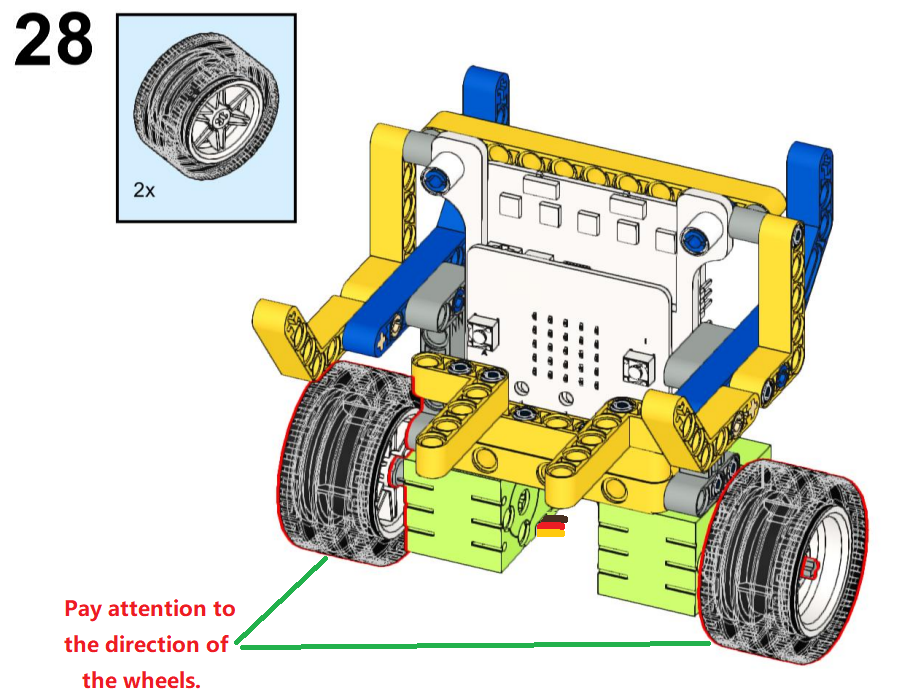
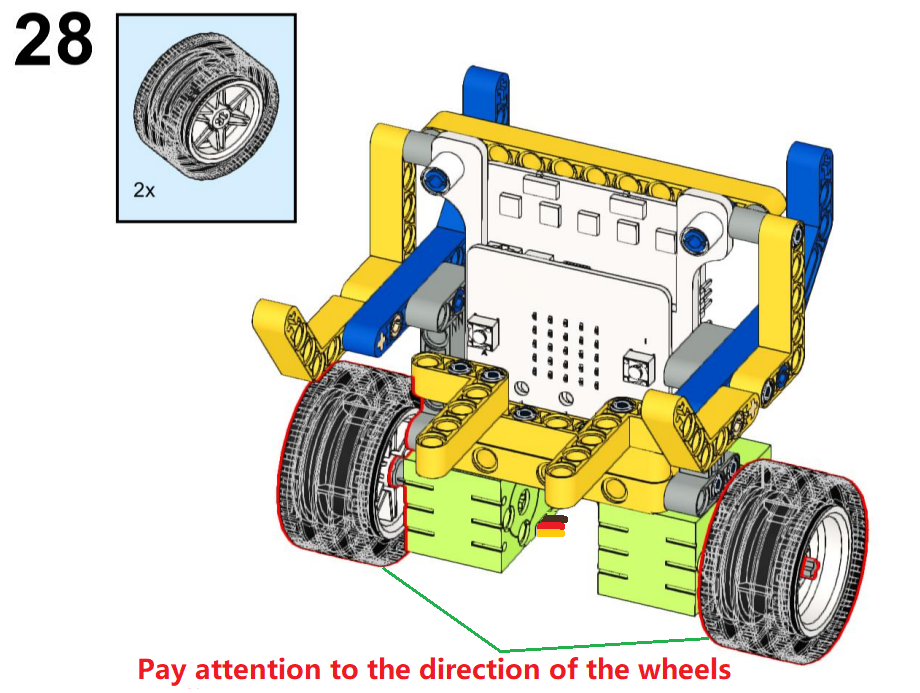
2026年02月12日 周四 14:04:17.04

diff --git a/docs/Product Introduction/1.Product Introduction.md b/docs/Product Introduction/1.Product Introduction.md
@@ -28,11 +28,11 @@ Standard Lego interfaces are reserved for Lego bricks to create unique works.
 
 🎯 Graphical Programming, Easy Learning
 
-MakeCode is supported that you can program by drag code blocks, so even beginners can quickly get started and develop logical thinking and practical skills.
+MakeCode is supported that you can program by drag and drop code blocks, so even beginners can quickly get started and develop logical thinking and practical skills.
 
 🎯 Interaction of Light & Sound, Full of Fun
 
-The Micro:bit V2 board is equipped with sound, light and touch sensor(the logo), along with SK6812 RGB lights and a 5×5 LED matrix screen, enabling rich audio and visual effects.
+The Micro:bit V2 board is equipped with sound, light and touch sensor(the logo), along with SK6812 RGB LEDs and a 5×5 LED matrix screen, enabling rich audio and visual effects.
 
 🎯 For Families, For Classrooms
 
@@ -40,31 +40,31 @@ It is not only a programming toy for parent-child interaction, but also an ideal
 
 **Details:**
 
-🎯 Mainboard: Micro:bit V2, supporting interaction with various built-in sensors and lights
+🎯 Mainboard: Micro:bit V2, supporting interaction with various built-in sensors and lights.
 
-🎯 Expansion board: Servo control, driving multiple mechanical structures
+🎯 Expansion board: Servo control, driving multiple mechanical structures.
 
-🎯 Servo: 2×360° Lego servo, dynamic stability
+🎯 Servo: 2 × 360° Lego servo, dynamic stability.
 
-🎯 Building blocks: 200+ Lego parts, with high degree of freedom in assembly
+🎯 Building blocks: 200+ Lego parts, with high degree of freedom in assembly.
 
-🎯 Programming software: MakeCode graphical programming, supporting Windows/Mac/tablets
+🎯 Programming software: MakeCode graphical programming, supporting Windows/Mac/tablets.
 
 **Applicable population:**
 
-🎯 Children and teenagers over the age of 6
+🎯 Children and teenagers over the age of 6.
 
-🎯 Parents who want to cultivate their children's logical thinking and practical skills
+🎯 Parents who want to cultivate their children's logical thinking and practical skills.
 
-🎯 STEAM course teachers in school and training institution
+🎯 STEAM course teachers in school and training institution.
 
 **Competitiveness:**
 
-🎯 Learning in Entertainment: Master programming and mechanical knowledge in play
+🎯 Learning in Entertainment: Master programming and mechanical knowledge in play.
 
-🎯 Continuous Challenge: 8 different styles + free expansion, keeping children's interest
+🎯 Continuous Challenge: 8 different styles + free expansion, keeping children's interest.
 
-🎯 Safe Material: Environment-friendly ABS plastic, safeguarding children's health
+🎯 Safe Material: Environment-friendly ABS plastic, safeguarding children's health.
 
 🎯 Professional Support: Offer detailed tutorials and examples, making it easy to get started.
 
@@ -76,9 +76,9 @@ If you found any part is missing, please contact our sales staff immediately.
 
 | # | name | qty | pic |
 | :--: | :--: | :--: | :--: |
-| 1 |Microbit V2 board + servo expansion baord  | 1 | ![Img](./media/ABC1.png) |
+| 1 | Microbit V2 board + servo expansion board | 1 | ![Img](./media/ABC1.png) |
 | 2 | 360° Lego servo | 2 | ![Img](./media/ABC2.png) |
-| 3 | block plier | 1 | ![Img](./media/ABC3.png) |
+| 3 | Building block disassembly pliers | 1 | ![Img](./media/ABC3.png) |
 | 4 | 32009 part | 6 | ![Img](./media/ABC4.png)|
 | 5 | 64179 part | 5 | ![Img](./media/ABC5.png) |
 | 6 | 32278 part | 5 | ![Img](./media/ABC6.png) |
@@ -91,8 +91,8 @@ If you found any part is missing, please contact our sales staff immediately.
 | 13 | 32526 part | 12 | ![Img](./media/ABC13.png) |
 | 14 | 32348 part | 2 | ![Img](./media/ABC14.png) |
 | 15 | 60484 part | 2 | ![Img](./media/ABC15.png) |
-| 16 | 14720 part | 5 |  ![Img](./media/ABC16.png) |
-| 17 | 3649 part | 4 |  ![Img](./media/ABC17.png) |
+| 16 | 14720 part | 5 | ![Img](./media/ABC16.png) |
+| 17 | 3649 part | 4 | ![Img](./media/ABC17.png) |
 | 18 | 3648 part | 6 | ![Img](./media/ABC18.png) |
 | 19 | 4185 part | 4 | ![Img](./media/ABC19.png) |
 | 20 | 32269 part | 3 | ![Img](./media/ABC20.png) |
@@ -108,12 +108,12 @@ If you found any part is missing, please contact our sales staff immediately.
 | 30 | 3705 part (about 3.2cm) | 2 | ![Img](./media/ABC30.png) |
 | 31 | 4519 part (about 2.4cm) | 2 | ![Img](./media/ABC31.png) |
 | 32 | 32062 part | 4 | ![Img](./media/ABC32.png) |
-| 33 | wheel | 2 | ![Img](./media/ABC33.png)|
+| 33 | Wheel | 2 | ![Img](./media/ABC33.png) |
 | 34 | 32034 part | 2 | ![Img](./media/ABC34.png) |
 | 35 | 32039 part | 4 | ![Img](./media/ABC35.png) |
 | 36 | 32192 part | 2 | ![Img](./media/ABC36.png) |
-| 37 | 32184 part | 2 |  ![Img](./media/ABC37.png) |
-| 38 | 15100 part | 4 |  ![Img](./media/ABC38.png) |
+| 37 | 32184 part | 2 | ![Img](./media/ABC37.png) |
+| 38 | 15100 part | 4 | ![Img](./media/ABC38.png) |
 | 39 | 3713 part | 6 | ![Img](./media/ABC39.png) |
 | 40 | 18654 part | 2 | ![Img](./media/ABC40.png) |
 | 41 | 4265c part | 6 | ![Img](./media/ABC41.png) |
@@ -122,8 +122,8 @@ If you found any part is missing, please contact our sales staff immediately.
 | 44 | 3749 part | 12 | ![Img](./media/ABC44.png) |
 | 45 | 3673 part | 13 | ![Img](./media/ABC45.png) |
 | 46 | 32002 part | 5 | ![Img](./media/ABC46.png) |
-| 47 | universal wheel | 1 | ![Img](./media/ABC47.png) |
-| 48 | micro USB cable | 1 | ![Img](./media/A400.png) |
+| 47 | Universal wheel | 1 | ![Img](./media/ABC47.png) |
+| 48 | Micro USB cable | 1 | ![Img](./media/A400.png) |
 | 49 | AAA-1.5V battery (<span style="color: rgb(255, 76, 65);">not included in the kit</span>) |4| ![Img](./media/ABC48.png) |
 
 ---------------
@@ -142,7 +142,7 @@ If you found any part is missing, please contact our sales staff immediately.
 
 ## 1.5 About Micro:bit V2
 
-### 1.5.1 What is Micro:bit V2 ?
+### 1.5.1 What is Micro:bit V2?
 
 The micro:bit V2 board is equipped with loads of components, including a 5x5 LED matrix, 2 programmable buttons, an accelerometer, a compass, a thermometer, a touch-sensitive logo and a MEMS microphone, a Bluetooth module of low energy, and a buzzer on its back, so it can play all kinds of sounds without any external equipment.
 
@@ -156,18 +156,18 @@ Moreover, this board has a sleeping mode to lower power consumption of batteries
 
 ![Img](./media/A639.png)
 
-Micro:bit pin functions:
+**Micro:bit pin functions:**
 
 | Function | Pin |
-| :--: | :--- |
+| :--: | :---: |
 | GPIO | P0, P1, P2, P3, P4, P5, P6, P7, P8, P9, P10, P11, P12, P13, P14, P15, P16, P19, P20 |
 | ADC/DAC | P0, P1, P2, P3, P4, P10 |
 | IIC | P19 (SCL), P20 (SDA) |
 | SPI | P13 (SCK), P14 (MISO), P15 (MOSI) |
-| PWM (commonly-used) |P0, P1, P2, P3, P4, P10 |
-|Occupied| P3 (LED Col3), P4 (LED Col1), P5 (Button A), P6 (LED Col4), P7 (LED Col2), P10 (LED Col5), P11 (Button B) |
+| PWM (commonly-used) | P0, P1, P2, P3, P4, P10 |
+| Occupied | P3 (LED Col3), P4 (LED Col1), P5 (Button A), P6 (LED Col4), P7 (LED Col2), P10 (LED Col5), P11 (Button B) |
 
-Visit the official website for more details:
+**Visit the official website for more details:**
 
 - <u>[https://tech.microbit.org/hardware/edgeconnector/](https://tech.microbit.org/hardware/edgeconnector/)</u>
 
@@ -196,14 +196,16 @@ The servo expansion board is fully compatible with the Micro:bit V2 mainboard. I
 **DIP Switches:**
 
 - **The right one:**
-  - **ON:** The power is supplied by the battery box;
+
+  - **ON:** The power is supplied by the battery box.
+  
   - **OFF:** The power supply is cut off.
 
 ![Img](./media/Servo-Expansion1.png)
 
 - **The left one:**
 
-   - **RGB:** The micro:bit V2 board can be programmed to change the colors of the 5 onboard SK6812 RGB lights. Moreover, the 3-pin interface on the pxl-bxt can also be connected to the SK6812 RGB light strip to control its colors.
+   - **RGB:** The micro:bit V2 board can be programmed to change the colors of the five onboard SK6812 RGB LEDs. Moreover, the 3-pin interface on the pxl-bxt can also be connected to the SK6812 RGB light strip to control its colors.
    
    - **SERVO:** The micro:bit V2 board can be programmed to adjust the angle of the external servos at 3-pin interface of SERVO3.
 
@@ -239,9 +241,9 @@ The servo expansion board is fully compatible with the Micro:bit V2 mainboard. I
    
    - General 3-pin 2.54mm interface × 4 (GND/VCC/SIG, GND/3.3V/D-out) 
    
-   - Interface for SK6812 RGB light strip × 1 (GND/3.3V/D-out) 
+   - Interface for SK6812 RGB LED strip × 1 (GND/3.3V/D-out) 
 
-- Insert 4 new AAA batteries, paying attention to the correct polarity.
+- Insert four new AAA batteries, paying attention to the correct polarity.
 
 - Connect external devices:
     

diff --git a/docs/Troubleshooting/4.Troubleshooting.md b/docs/Troubleshooting/4.Troubleshooting.md
@@ -6,7 +6,7 @@ Solutions for the issue where micro:bit V2 board fails to download programs and 
 
 Many new users have recently encountered this issue: When they plug the Micro:bit V2 board into the computer via a Micro USB cable and click on "**Download**", the code fails to download and the Micro:bit V2 board shows no response.
 
-If you were accidentally holding the reset button at the back of the Micro:bit V2 board at the time you copied the program onto it, this would have put the the board into maintenance mode. Or perhaps due to some of your own mistakes, the firmware on the board is lost.
+If you were accidentally holding the reset button at the back of the Micro:bit V2 board at the time you copied the program onto it, this would have put the board into maintenance mode. Or perhaps due to some of your own mistakes, the firmware on the Micro:bit V2 board is lost.
 
 As a result, a new **MAINTENANCE** drive will appear in your file manager, so the micro:bit V2 board will not accept your user code. 
 
@@ -60,9 +60,9 @@ You still cannot see the **MICROBIT** drive ? Hum, there might be a problem with
 
 **Step 2: Checking your firmware version**
 
-To find out what version of the firmware you have on your micro:bit V2:
+To find out what version of the firmware you have on your micro:bit V2 board:
 
-①. Plug it in to a computer using the micro USB cable and open **MICROBIT** drive.
+①. Plug it into a computer using the micro USB cable and open **MICROBIT** drive.
 
 ![Img](./media/A849.png)
 
@@ -102,14 +102,15 @@ If you need to update the firmware to access a new feature or troubleshoot a pro
 
 ⑥. Finally, check the <span style="color: rgb(255, 76, 65);">DETAILS.TXT</span> file that is on the **MICROBIT** drive and make sure that it has the same version number as the "**.hex**" firmware.
 
-For any issues oof the board, maintenance mode and firmware updates, please refer to the <u>[Firmware Guide](https://microbit.org/guide/firmware/)</u>.
+For any issues of the board, maintenance mode and firmware updates, please refer to the <u>[Firmware Guide](https://microbit.org/guide/firmware/)</u>.
 
 **Step 4: Checking your browser version**
 
-WebUSB is a relatively new function that you may update your browser. Check if your browser is: (a) compatible with Android, Chrome OS; (b) Microsoft Edge; (c) the Chrome 65+ of Linux, macOS and Windows 10.
+WebUSB is a relatively new function that you may update your browser. Check if your browser is: (a) compatible with Android, Chrome OS; (b) Microsoft Edge; (c) the Chrome 65+ of Linux, macOS and Windows 10/11.
 
 **Step 5: Connecting a device**
 
-Open **Google Chrome / Microsoft Edge** to go to the MakeCode editor, and click on the "**Connect Device**". For how to pair a device, please refer to <u>[WebUSB (/ device/ usb/ webusb)](https://microbit.org/get-started/user-guide/web-usb/)</u>.
+Open **Google Chrome / Microsoft Edge** to go to the MakeCode editor, and click on the "**Connect Device**". For how to pair a device, please refer to <u>[WebUSB (/ device/ usb/ webusb)](https://microbit.org/get-started/user-guide/web-usb/)</u> .
 
 Enjoy quick download!
+

diff --git a/docs/MakeCode Tutorial/Projects/Project01.md b/docs/MakeCode Tutorial/Projects/Project01.md
@@ -4,7 +4,7 @@
 
 ![Img](./media/top1.png)
 
-Here we build a multifunctional car with a Micro:bit V2 board, a servo expansion board, two 360° LEGO servos, two wheels and some LEGO parts. We program to control the car through the Micro:bit V2 logo, buttons A/B and 5×5 LED matrix.
+Here we build a multifunctional car with a Micro:bit V2 board, a servo expansion board, two 360° LEGO servos, two wheels and some LEGO parts. We program to control the car through the Micro:bit V2 logo, buttons (A, B and A+B) and 5×5 LED matrix.
 
 ![Img](./media/bottom1.png)
 
@@ -32,7 +32,7 @@ Parameters:
 - Motor speed: 12500 ± 10% (3V test), 22000 ± 10% (5V test)
 - Stop current: 0.70 ± 0.2A (3V test), 1.1 ± 0.2A (5V test)
 - Stop torque: 0.5 ± 0.1kg-cm (3V test), 0.7 ± 0.1kg-cm (5V test)
-- Wiring: Orange for signal S, red for positive+(V/VCC), brown for negative-(G/GND)
+- Wiring: Orange for signal S, red for positive ( + / V / VCC ), brown for negative ( - / G / GND )
 
 **SK6812 RGB LED**
 
@@ -132,7 +132,7 @@ There are five SK6812 RGB LEDs on the servo extension board, which can emit mult
 
 ![Img](./media/RGBLED1.png)
 
-5\. Turn off the SK6812 RGB LED.
+5\. Turn off these SK6812 RGB LEDs.
 
 ![Img](./media/RGBclear.png)
 
@@ -256,7 +256,7 @@ Turn the DIP switched to the RGB and ON.
 
 ![Img](./media/CBA01.png)
 
-Touch the logo on the micro:bit V2 board, the car moves forward, these SK6812 RGB LEDs emit red light, and the 5×5 LED matrix displays "↑"; 
+Touch the logo on the micro:bit V2 board, the car moves forward, these SK6812 RGB LEDs emit red light, and the 5×5 LED matrix displays "↑".
 
 Press button A and B on the micro:bit V2 board simultaneously and release them, the car moves backward, these SK6812 RGB LEDs emit green light, and the 5×5 LED matrix displays "↓". 
 

diff --git a/docs/MakeCode Tutorial/MakeCode Development Environment.md b/docs/MakeCode Tutorial/MakeCode Development Environment.md
@@ -14,7 +14,7 @@ There are blocks "**on start**" and "**forever**" in the code editing area. When
 
 ![Img](./media/A75.png)
 
-Click  "**JS JavaScript**" to see the JavaScript code:
+Click "**JS JavaScript**" to see the JavaScript code:
 
 ![Img](./media/A754.png)
 
@@ -30,7 +30,7 @@ Or click "**Python**" to switch to Python code:
 
 ### 3.1.2.1 Add Library
 
-⚠ **We provide code files (.hex) for each projects, so you can directly load them to the MakeCode editor. Or if you want, you can also build code blocks by yourself. Note that libraries are required when build them manually.**
+⚠ **We provide code files (.hex) for each projects, so you can directly load them to the MakeCode editor. Or if you want, you can also drag and drop code blocks to build code by yourself. Note that libraries are required when build them manually.**
 
 <u>[MakeCode online version](https://makecode.microbit.org/#editor)</u>
 
@@ -44,7 +44,7 @@ Or click "**Python**" to switch to Python code:
 
 ![Img](./media/Animation-5.gif)
 
-## 3.1.3 MakeCode Program
+## 3.1.3 MakeCode Program (<span style="color: rgb(255, 76, 65);">Important</span>)
 
 ### 3.1.3.1 Import Program in MakeCode
 

diff --git a/docs/MakeCode Tutorial/Projects/Project06.md b/docs/MakeCode Tutorial/Projects/Project06.md
@@ -92,7 +92,7 @@ When the condition in "if()" is satisfied, codes under "then" will execute. Or, 
 
 ![Img](./media/if-else.png)
 
-2\. Read the light level through the 5×5 LED matrix on the micro:bit V2 board, ranging from 0(dim) to 255(bright).
+2\. Read the light level through the 5×5 LED matrix on the micro:bit V2 board, ranging from 0 (dim) to 255 (bright).
 
 ![Img](./media/lightlevel.png)
 
